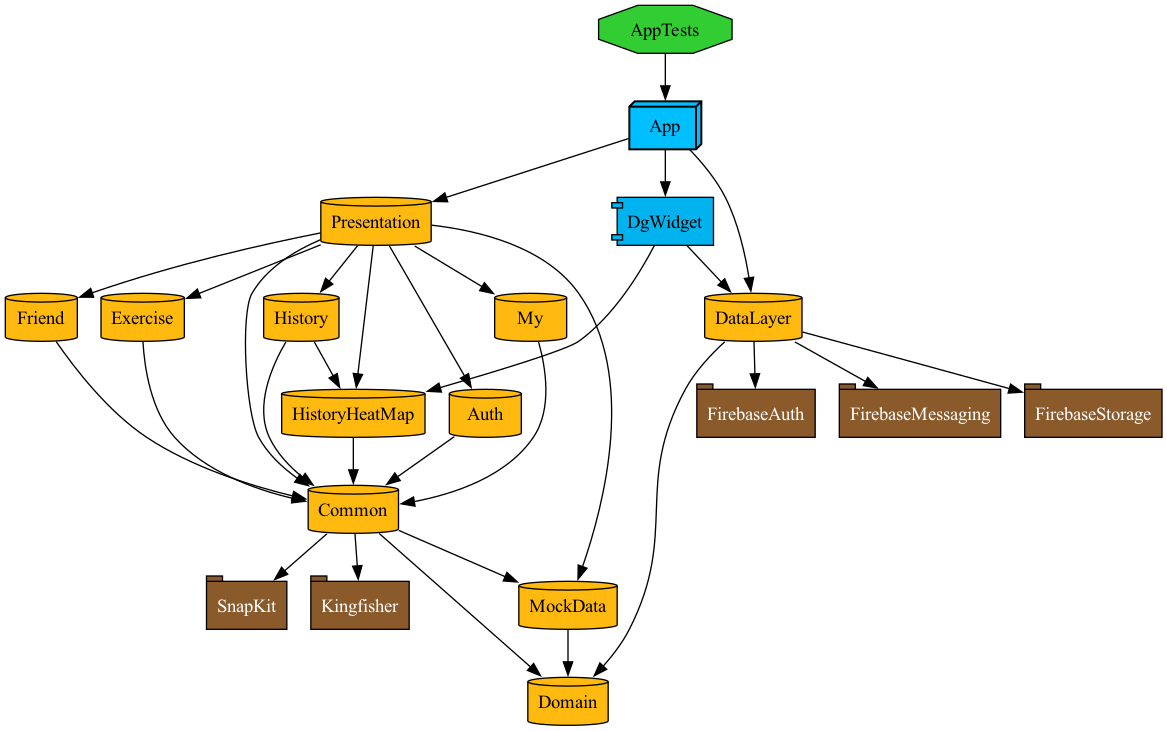
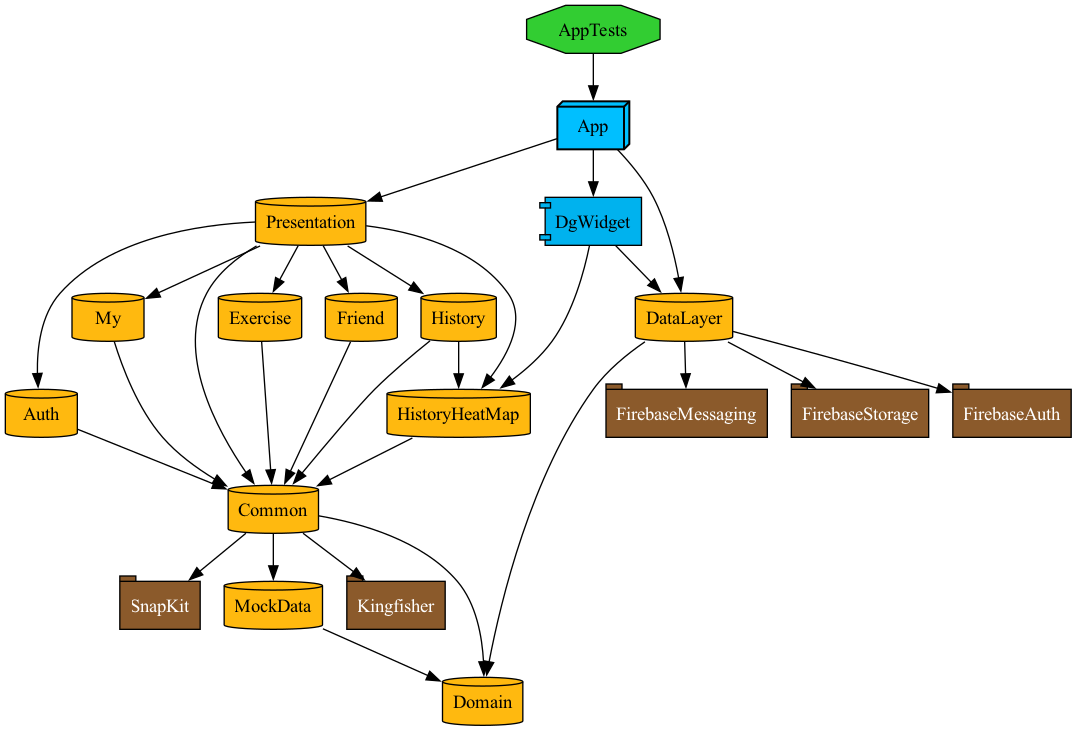
move mockdata to layer from presentation

diff --git a/Project.swift b/Project.swift
@@ -9,6 +9,7 @@ enum Layer: String, CaseIterable {
     case Domain
     case DataLayer
     case Presentation
+    case MockData
 }
 
 enum Presentation: String, CaseIterable {
@@ -17,7 +18,6 @@ enum Presentation: String, CaseIterable {
     case Exercise
     case HistoryHeatMap
     case History
-    case MockData
     case My
     case Friend
 }
@@ -162,6 +162,17 @@ func createLayers() -> [Target] {
                 sources: ["\(projectName)/sources/\($0.rawValue)/Parent/**"],
                 dependencies: dependencies
             )
+        case .MockData:
+            return .target(
+                name: $0.rawValue,
+                destinations: .iOS,
+                product: .framework,
+                bundleId: bundleId + ".\(Layer.Presentation.rawValue).\($0.rawValue)".lowercased(),
+                sources: ["\(projectName)/sources/\($0.rawValue)/**"],
+                dependencies: [
+                    .target(name: Layer.Domain.rawValue, condition: nil)
+                ]
+            )
         }
     })
 }
@@ -190,17 +201,6 @@ func createPresentations() -> [Target] {
             return createPresentation($0, dependencies: [
                 .target(name: Presentation.HistoryHeatMap.rawValue, condition: nil)
             ])
-        case .MockData:
-            return .target(
-                name: $0.rawValue,
-                destinations: .iOS,
-                product: .framework,
-                bundleId: bundleId + ".\(Layer.Presentation.rawValue).\($0.rawValue)".lowercased(),
-                sources: ["\(projectName)/sources/\(Layer.Presentation.rawValue)/\($0.rawValue)/**"],
-                dependencies: [
-                    .target(name: Layer.Domain.rawValue, condition: nil)
-                ]
-            )
         case .Common:
             return .target(
                 name: $0.rawValue,
@@ -209,7 +209,7 @@ func createPresentations() -> [Target] {
                 bundleId: bundleId + ".\(Layer.Presentation.rawValue).\($0.rawValue)".lowercased(),
                 sources: ["\(projectName)/sources/\(Layer.Presentation.rawValue)/\($0.rawValue)/**"],
                 dependencies: [
-                    .target(name: Presentation.MockData.rawValue, condition: nil),
+                    .target(name: Layer.MockData.rawValue, condition: nil),
                     .target(name: Layer.Domain.rawValue, condition: nil),
                     .package(product: "Kingfisher", type: .runtime, condition: nil),
                     .package(product: "SnapKit", type: .runtime, condition: nil)
